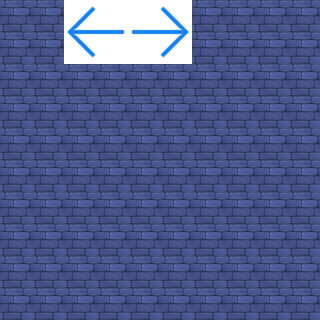
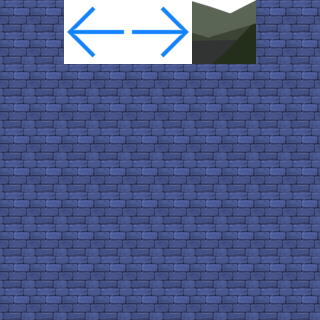
Add ground and spikes

Changed region(s): [[0.5938, 0.0, 0.8125, 0.2188]]

diff --git a/src/scenes/mainScene.ts b/src/scenes/mainScene.ts
@@ -28,6 +28,7 @@ export class MainScene extends Phaser.Scene {
   private backgroundLayer: Phaser.Tilemaps.StaticTilemapLayer;
 
   private enemiesGroup: Phaser.Physics.Arcade.Group;
+  private spikeGroup: Phaser.Physics.Arcade.StaticGroup;
   private bloodSpots: Set<Phaser.GameObjects.GameObject>;
 
   // Particles
@@ -48,6 +49,7 @@ export class MainScene extends Phaser.Scene {
     this.load.setPath('./assets/');
     this.load.image("background", "background.png");
     this.load.image("ground", "ground.png");
+    this.load.image("spike", "spike.png");
     this.load.image("healthbar_empty", "healthbar_empty.png");
     this.load.image("healthbar_full", "healthbar_full.png");
     this.load.image("1x1white", "1x1white.png");
@@ -136,6 +138,7 @@ export class MainScene extends Phaser.Scene {
     this.bloodParticles = this.add.particles("1x1white");
     this.bloodSpots = new Set();
 
+    this.spikeGroup = this.physics.add.staticGroup();
     this.worldLayer.forEachTile(tile => {
       // Make tiles controlling NPC actions invisible.
       if (!this.game.config.physics.arcade.debug) {
@@ -143,6 +146,46 @@ export class MainScene extends Phaser.Scene {
           tile.setVisible(false);
         }
       }
+      if ("spike" in tile.properties) {
+        const spike = this.spikeGroup.create(tile.getCenterX(), tile.getCenterY(), "spike");
+        // The map has spikes rotated in Tiled (z key), so parse out that angle to the correct body
+        // placement
+        spike.rotation = tile.rotation;
+        var height = 0;
+        var width = 0;
+        var offsetX = 0;
+        var offsetY = 0;
+
+        if (spike.angle === 0) {
+          height = CONST.tileSize;
+          width = 12;
+          offsetX = 0;
+          offsetY = 2 * (CONST.tileSize - 6);
+        } else if (spike.angle === -90) {
+          height = 12;
+          width = CONST.tileSize;
+          offsetX = 2 * (CONST.tileSize - 6);
+          offsetY = 0;
+        } else if (spike.angle === 90) {
+          height = 12;
+          width = CONST.tileSize;
+          offsetX = 0;
+          offsetY = 0;
+        }
+
+        spike.setDisplaySize(height, width);
+        spike.body.setSize(height, width);
+        spike.body.setOffset(offsetX, offsetY);
+
+        this.worldLayer.removeTileAt(tile.x, tile.y);
+      }
+
+    });
+
+
+    this.physics.add.overlap(this.spikeGroup, this.player,
+                             (b: Phaser.GameObjects.GameObject, player: Phaser.GameObjects.GameObject) => {
+      this.playerState.blood = 0;
     });
 
     this.playerState.on(EVENT.playerDied, () => {
